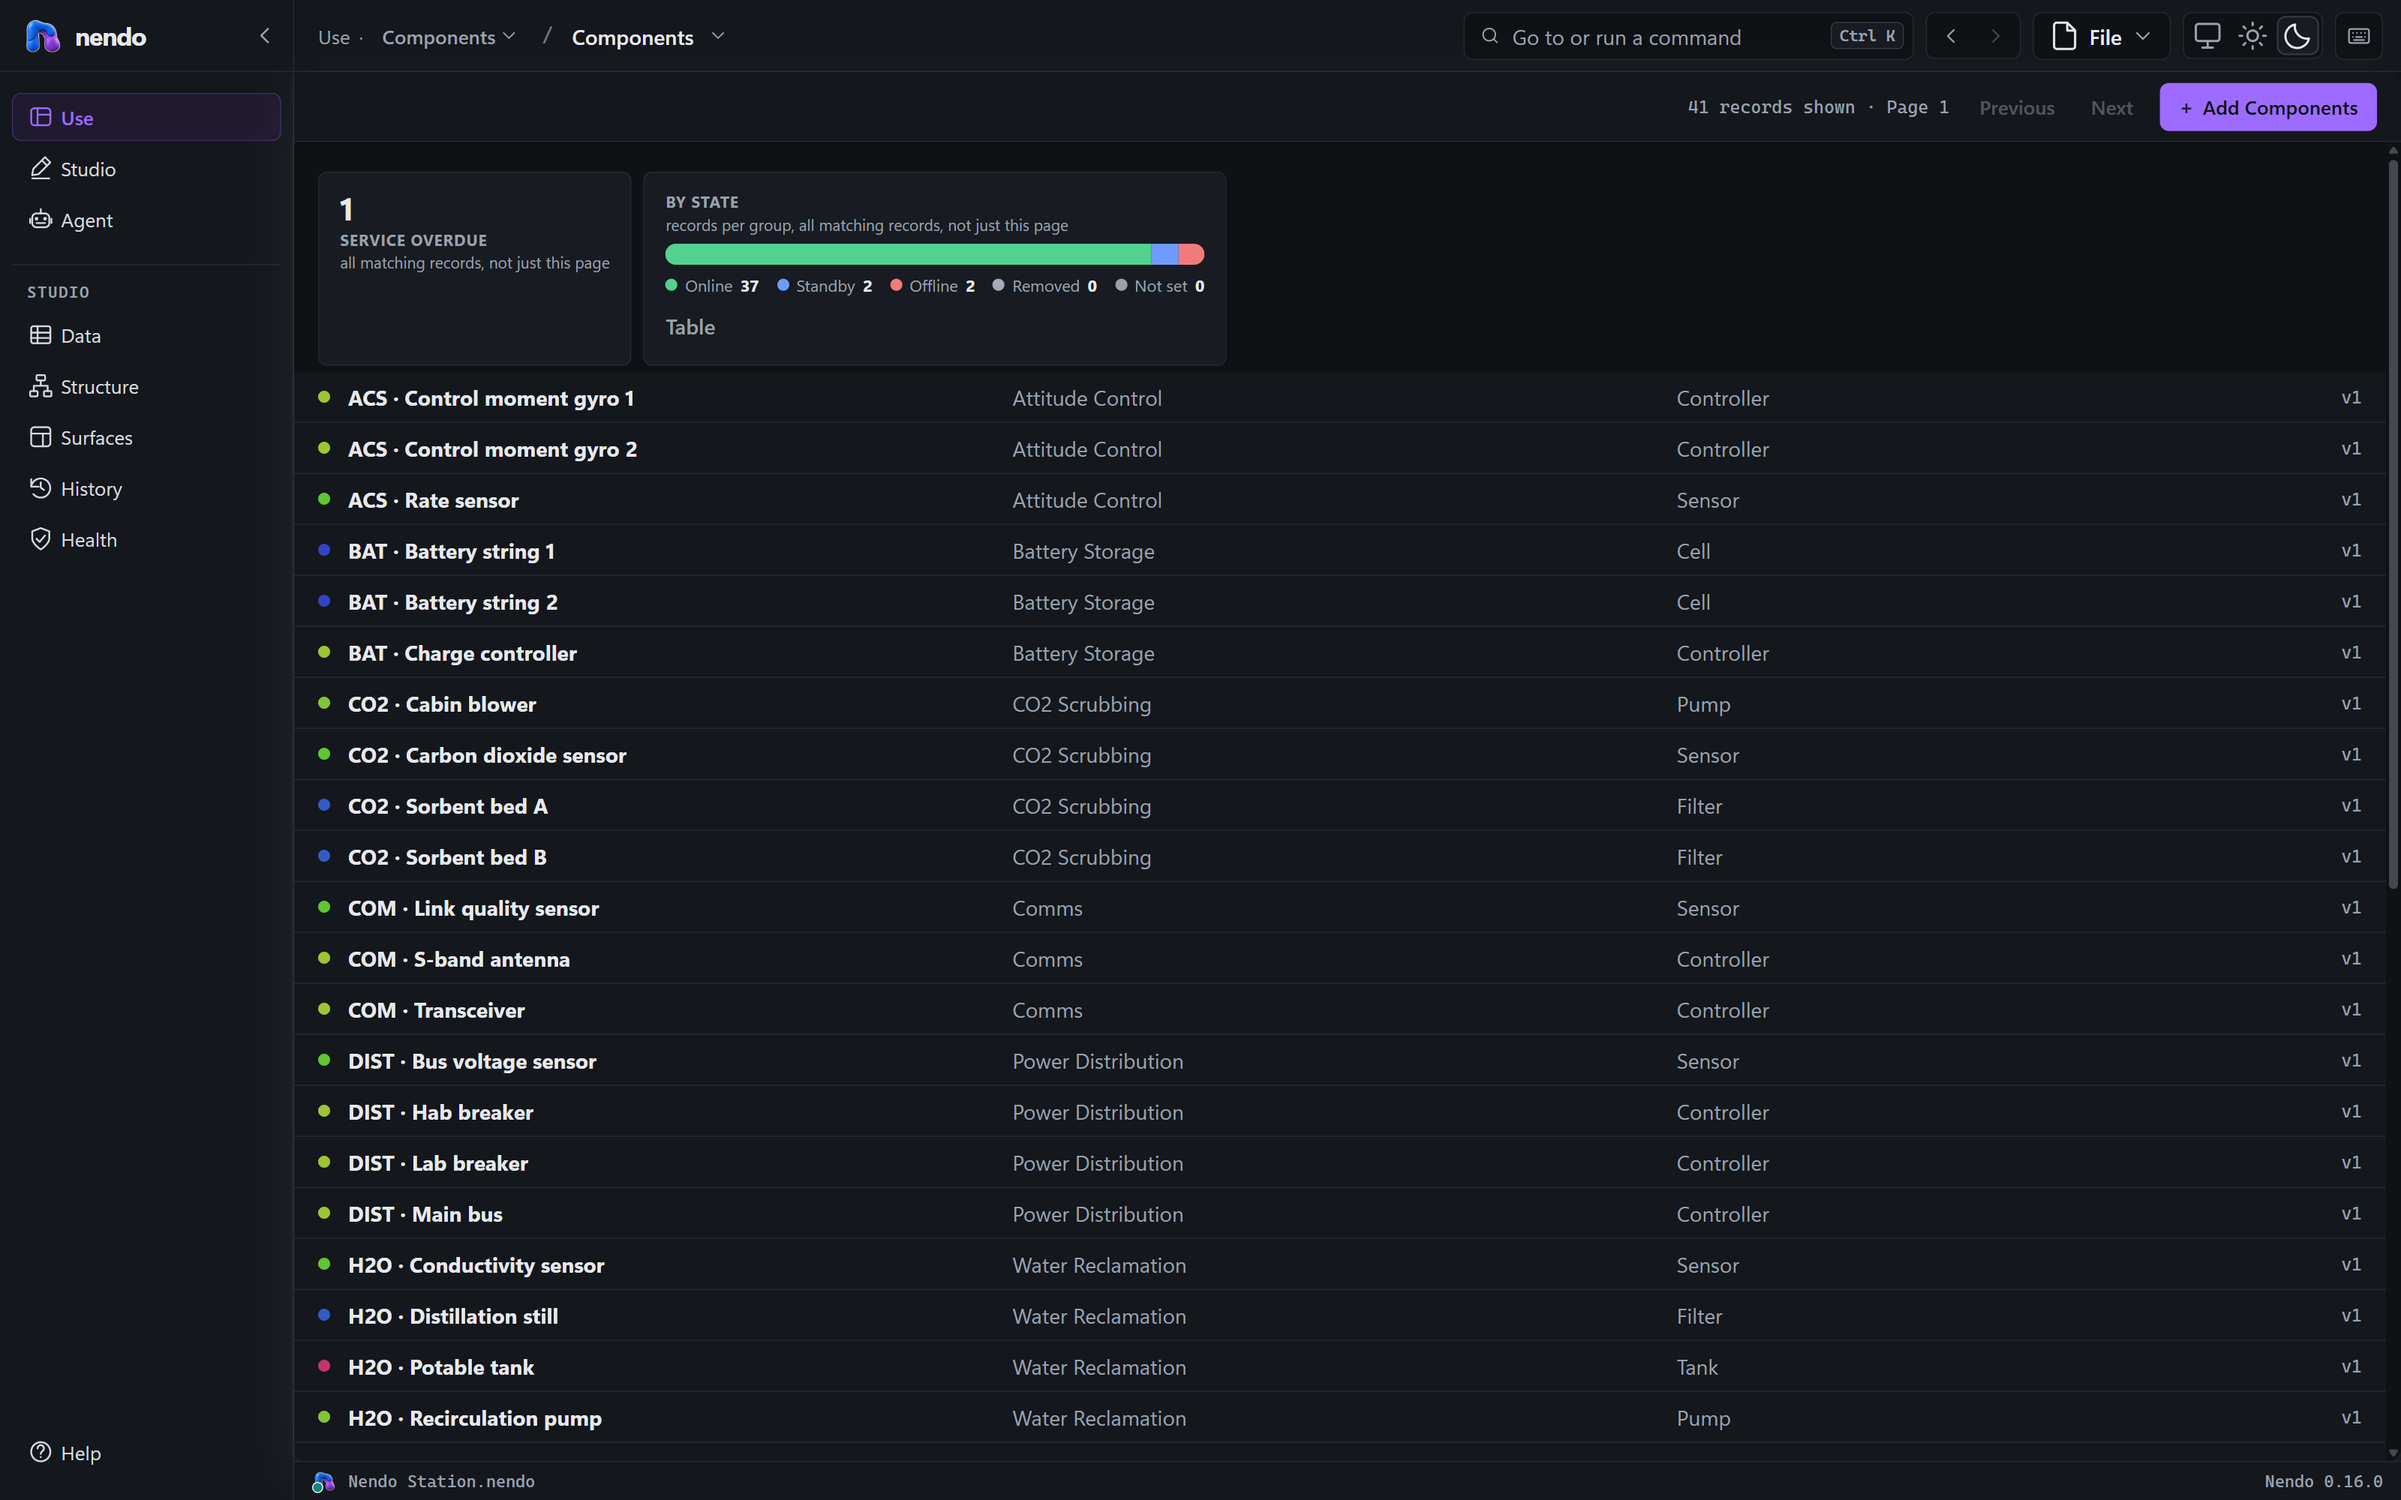
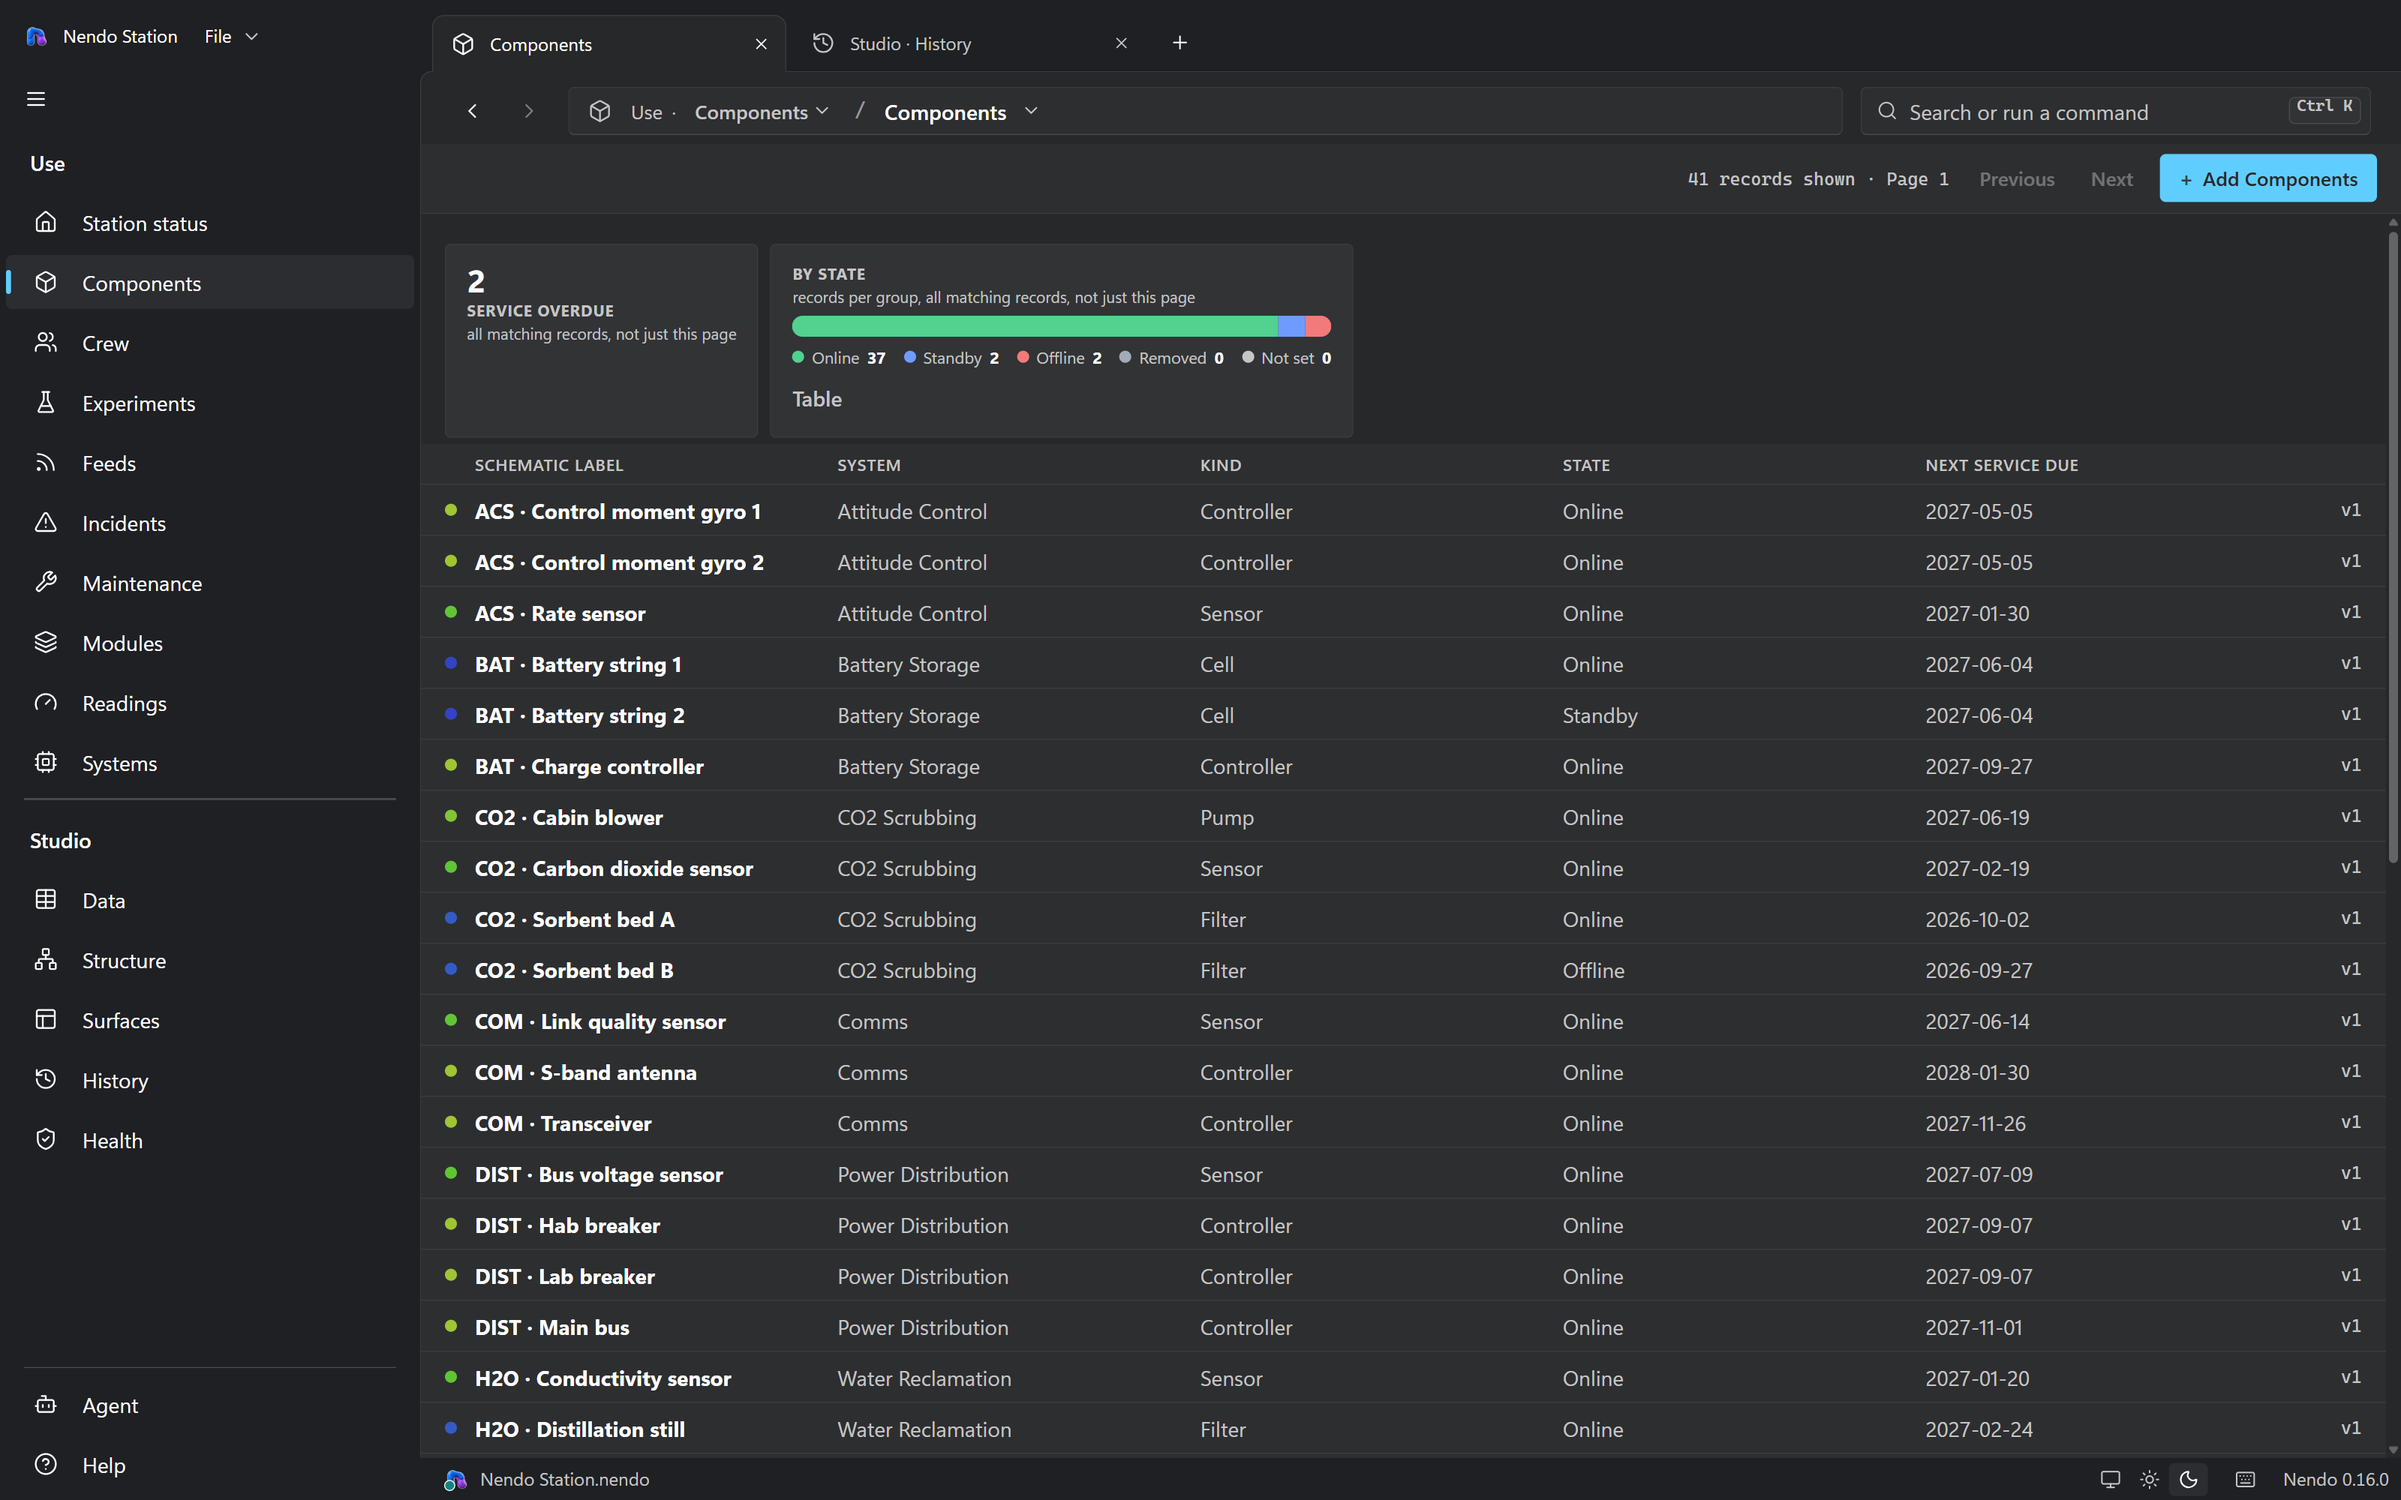
Site screenshots and guides show Mica with tabs; the view fixture hands views Mica's colours (W-131, F-243)
The capture lane paints the ground as a browser does, since a screenshot
of the page cannot hold the Mica behind it, and keeps a second tab open
so the shots show the tabs. 24 screenshots retaken from main. Getting
started says how tabs, the address row and the theme work.

The fixture broker's theme tokens were Console's; they are 02-tokens.css's
again, and the BCM Atlas lane's canvas colours follow.

diff --git a/tools/Graph-FixtureBroker.html b/tools/Graph-FixtureBroker.html
@@ -77,17 +77,17 @@ window.toolbarRules = Object.freeze({ readToolbar, readMenu });
   // declares them and extension-model.ts names them.
   const themes = {
     light: {
-      canvas: '#f3f4f6', surface: '#ffffff', 'surface-raised': '#ffffff', 'surface-soft': '#f1f2f5', ink: '#14171c',
-      muted: '#5b6370', line: '#e2e5ea', 'line-strong': '#cdd2da', cobalt: '#6b3fd6', 'cobalt-soft': '#efe9fd',
-      violet: '#8a4fd8', healthy: '#1a7f51', warning: '#9c6400', danger: '#c23a31',
+      canvas: '#f9f9fa', surface: '#ffffff', 'surface-raised': '#ffffff', 'surface-soft': '#f3f3f4', ink: '#1b1b1b',
+      muted: '#5d5d5d', line: '#e5e5e5', 'line-strong': '#d1d1d1', cobalt: '#005fb8', 'cobalt-soft': '#e5eff9',
+      violet: '#005fb8', healthy: '#1a7f51', warning: '#9c6400', danger: '#c23a31',
       shadow: '0 1px 2px rgba(20, 23, 28, 0.05), 0 12px 32px -16px rgba(20, 23, 28, 0.18)',
       'tone-red': '#c93a3a', 'tone-orange': '#c75a17', 'tone-amber': '#a37608', 'tone-green': '#1f8a52',
       'tone-teal': '#16837e', 'tone-blue': '#2f63d6', 'tone-violet': '#7446d4', 'tone-grey': '#677080',
     },
     dark: {
-      canvas: '#0f1115', surface: '#14171c', 'surface-raised': '#181b21', 'surface-soft': '#1c2027', ink: '#e7e9ed',
-      muted: '#9aa1ad', line: '#262a33', 'line-strong': '#353b47', cobalt: '#9d6bff', 'cobalt-soft': '#251c3a',
-      violet: '#c29bff', healthy: '#46d08f', warning: '#e9b659', danger: '#f37b72',
+      canvas: '#272829', surface: '#2d2e30', 'surface-raised': '#323335', 'surface-soft': '#38393b', ink: '#ffffff',
+      muted: '#c5c5c5', line: '#3b3c3e', 'line-strong': '#4b4c4f', cobalt: '#60cdff', 'cobalt-soft': '#1f3a4a',
+      violet: '#60cdff', healthy: '#46d08f', warning: '#e9b659', danger: '#f37b72',
       shadow: '0 1px 0 rgba(255, 255, 255, 0.02), 0 20px 48px -16px rgba(0, 0, 0, 0.7)',
       'tone-red': '#f27a7a', 'tone-orange': '#f29a5c', 'tone-amber': '#e8c15a', 'tone-green': '#52d18f',
       'tone-teal': '#4ecdc4', 'tone-blue': '#6f9bff', 'tone-violet': '#b392ff', 'tone-grey': '#a3abb8',

diff --git a/site/src/content/docs/getting-started.md b/site/src/content/docs/getting-started.md
@@ -91,6 +91,8 @@ Studio is the part of Nendo that the host provides for every file. No file conte
 
 Three more items sit beside Studio in the navigation. **Use** opens the screens the file defines (lists, boards, calendars, record pages); it has nothing to show until the file has screens. Under it the navigation lists the file's front page, its views and its record types, each with an icon, so you can go straight to one. **Agent** controls agent access. **Help** is built in and works with no file open.
 
+The places you keep open are tabs across the top of the window, and each tab has its own Back and Forward. **Ctrl T** or **+** opens a new tab on the screen you are on, **Ctrl W** closes one and **Ctrl Tab** moves to the next. Ctrl-click or middle-click anything in the navigation to open it in a new tab. Under the tabs, the address row shows where you are, and the box at its right end (**Ctrl K**) goes anywhere or runs a command. The theme (System, Light or Dark) is at the right end of the status bar.
+
 ## Your first record type and records, by hand
 
 You do not need an agent for this.

diff --git a/docs/design/surfaces-and-charts-plan.md b/docs/design/surfaces-and-charts-plan.md
@@ -109,7 +109,7 @@ Every primitive carries its numbers beside the shape, exposes a table of the
 same numbers behind one toggle, names every segment for a screen reader, takes
 keyboard focus per segment, respects reduced motion, and reads *Unavailable*
 with the reason when its number is absent. Tones come from F1; the rest of the
-palette is Console's graphite, hairlines and violet accent ([console-direction.md](console-direction.md); Molded Workbench's warm white, deep navy and cobalt until 2026-09-26).
+palette is Mica with tabs' Fluent neutrals and Windows blue accent ([mica-direction.md](mica-direction.md); Console's graphite and violet from 2026-09-26, Molded Workbench's warm white, deep navy and cobalt before that).
 
 ### F4. The slice checklist
 
